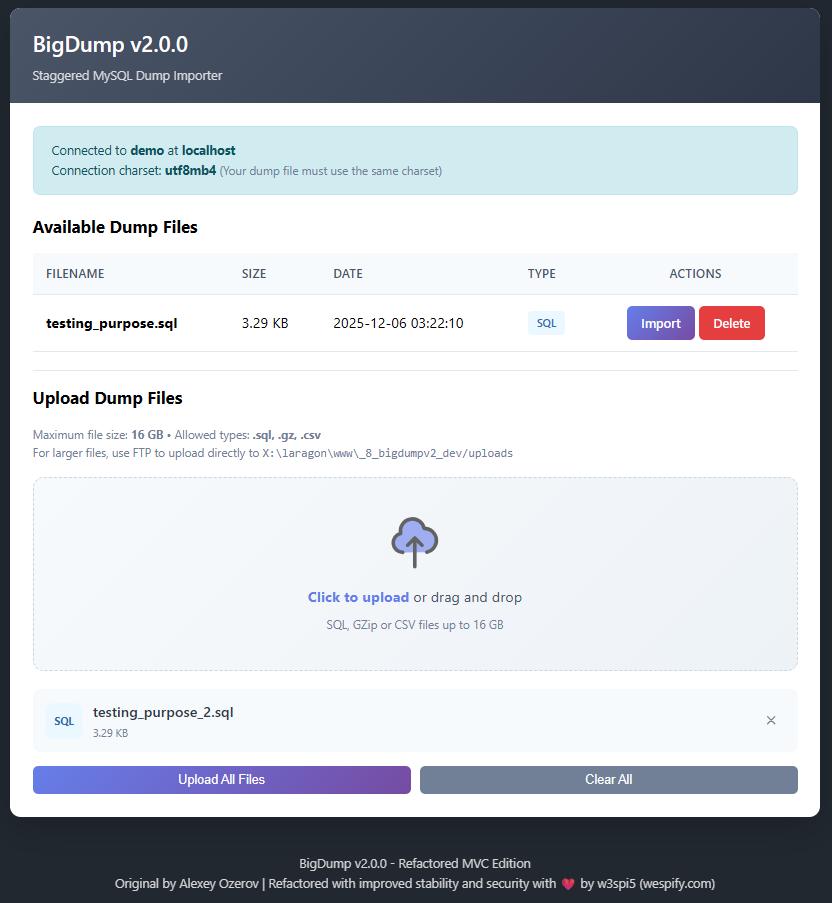
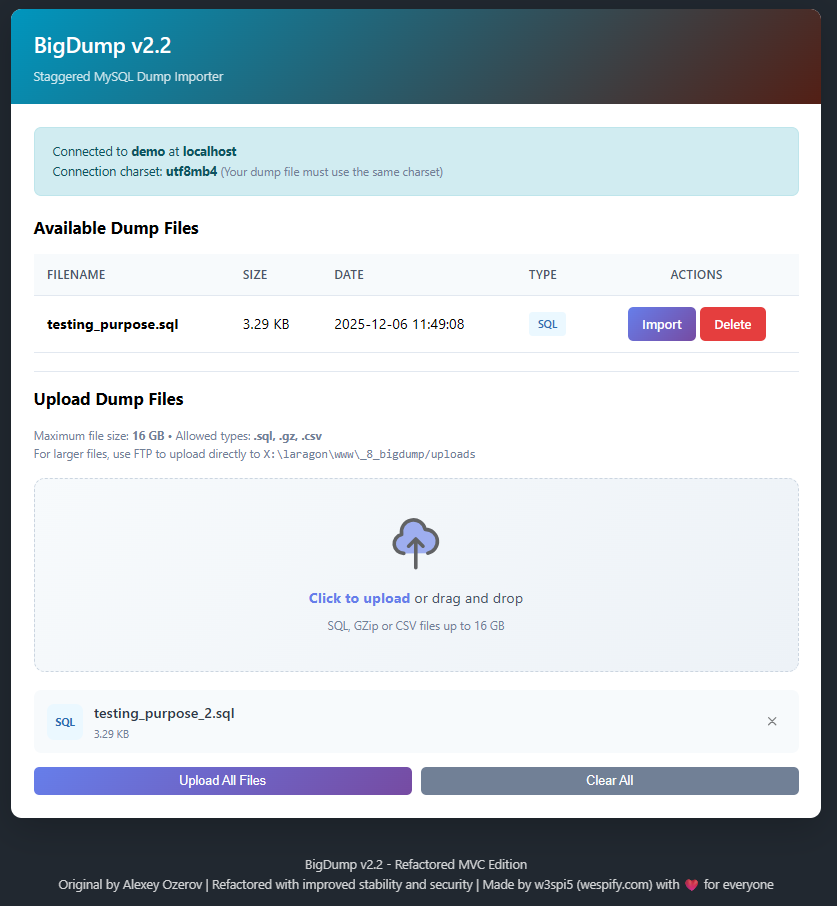
v2.2

diff --git a/src/Core/Application.php b/src/Core/Application.php
@@ -17,14 +17,14 @@ use Throwable;
  *
  * @package BigDump\Core
  * @author  MVC Refactoring
- * @version 2.0.0
+ * @version 2.2
  */
 class Application
 {
     /**
      * Application version.
      */
-    public const VERSION = '2.0.0';
+    public const VERSION = '2.2';
 
     /**
      * Configuration instance.

diff --git a/src/Controllers/BigDumpController.php b/src/Controllers/BigDumpController.php
@@ -24,7 +24,7 @@ use BigDump\Services\AjaxService;
  *
  * @package BigDump\Controllers
  * @author  Refactorisation MVC
- * @version 2.0.0
+ * @version 2.2
  */
 class BigDumpController
 {

diff --git a/src/Services/AjaxService.php b/src/Services/AjaxService.php
@@ -15,7 +15,7 @@ use BigDump\Models\ImportSession;
  *
  * @package BigDump\Services
  * @author  Refactorisation MVC
- * @version 2.0.0
+ * @version 2.2
  */
 class AjaxService
 {

diff --git a/public/index.php b/public/index.php
@@ -12,7 +12,7 @@
  * 3. Access this file via your web browser
  *
  * @package BigDump
- * @version 2.0.0
+ * @version 2.2
  * @author  MVC Refactoring
  * @license MIT
  */

diff --git a/src/Services/ImportService.php b/src/Services/ImportService.php
@@ -22,7 +22,7 @@ use RuntimeException;
  *
  * @package BigDump\Services
  * @author  Refactorisation MVC
- * @version 2.0.0
+ * @version 2.2
  */
 class ImportService
 {

diff --git a/src/Models/ImportSession.php b/src/Models/ImportSession.php
@@ -12,7 +12,7 @@ namespace BigDump\Models;
  *
  * @package BigDump\Models
  * @author  MVC Refactoring
- * @version 2.0.0
+ * @version 2.2
  */
 class ImportSession
 {

diff --git a/src/Models/SqlParser.php b/src/Models/SqlParser.php
@@ -23,7 +23,7 @@ use BigDump\Config\Config;
  *
  * @package BigDump\Models
  * @author  MVC Refactoring
- * @version 2.0.0
+ * @version 2.2
  */
 class SqlParser
 {

diff --git a/src/Models/FileHandler.php b/src/Models/FileHandler.php
@@ -23,7 +23,7 @@ use RuntimeException;
  *
  * @package BigDump\Models
  * @author  MVC Refactoring
- * @version 2.0.0
+ * @version 2.2
  */
 class FileHandler
 {

diff --git a/src/Config/Config.php b/src/Config/Config.php
@@ -14,7 +14,7 @@ use RuntimeException;
  *
  * @package BigDump\Config
  * @author  Refactorisation MVC
- * @version 2.0.0
+ * @version 2.2
  */
 class Config
 {

diff --git a/src/Core/Response.php b/src/Core/Response.php
@@ -12,7 +12,7 @@ namespace BigDump\Core;
  *
  * @package BigDump\Core
  * @author  MVC Refactoring
- * @version 2.0.0
+ * @version 2.2
  */
 class Response
 {

diff --git a/src/Models/Database.php b/src/Models/Database.php
@@ -17,7 +17,7 @@ use RuntimeException;
  *
  * @package BigDump\Models
  * @author  MVC Refactoring
- * @version 2.0.0
+ * @version 2.2
  */
 class Database
 {

diff --git a/src/Core/Request.php b/src/Core/Request.php
@@ -12,7 +12,7 @@ namespace BigDump\Core;
  *
  * @package BigDump\Core
  * @author  MVC Refactoring
- * @version 2.0.0
+ * @version 2.2
  */
 class Request
 {
